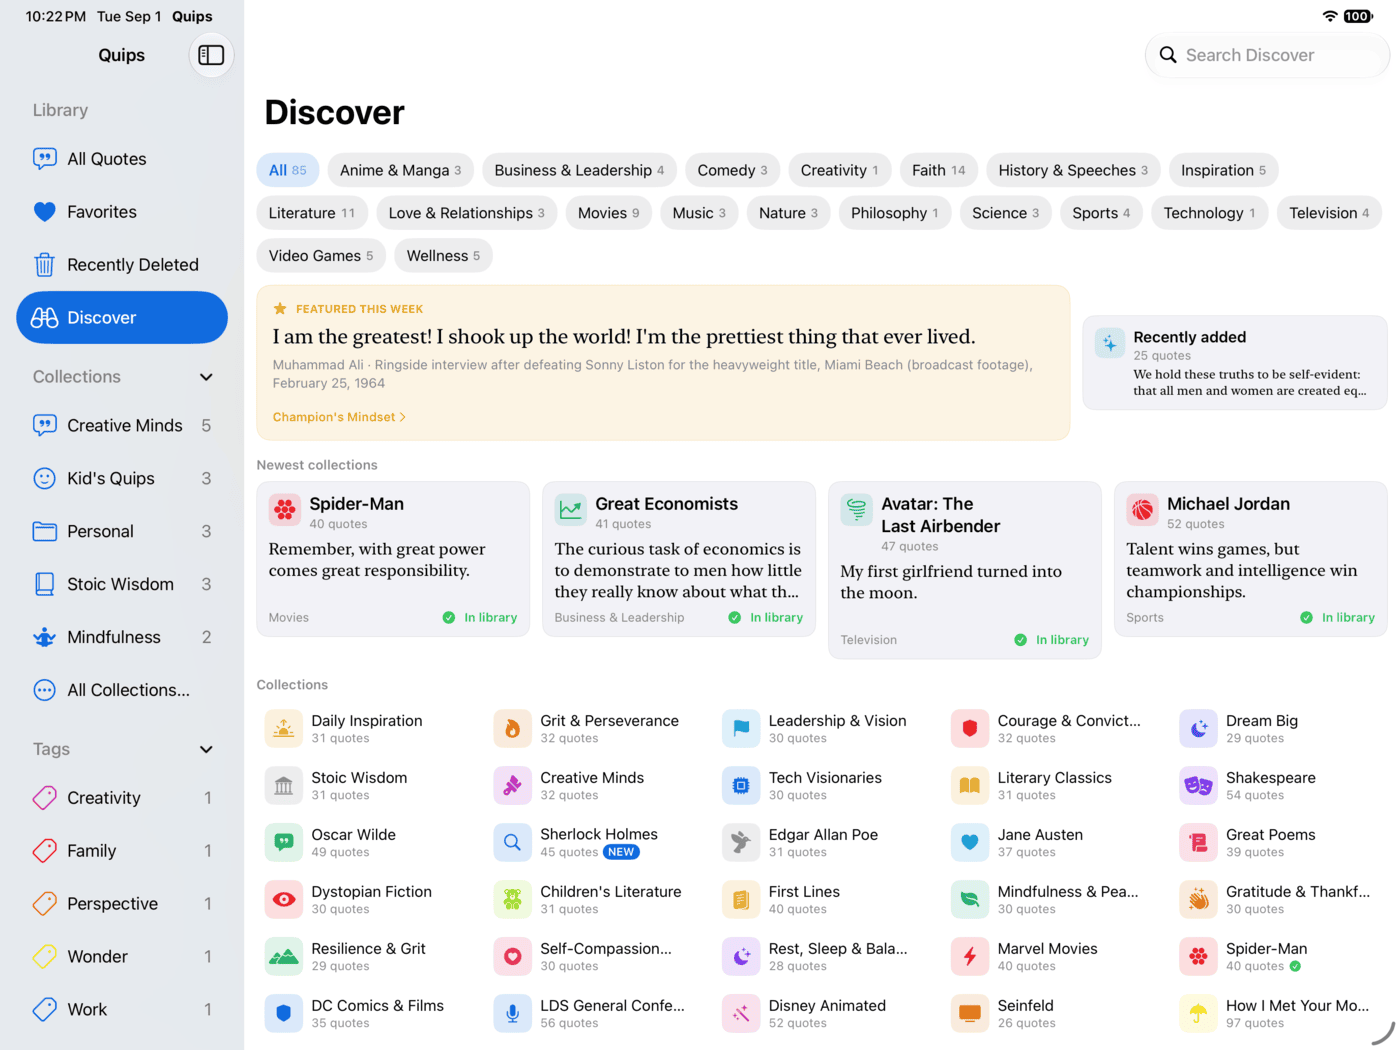
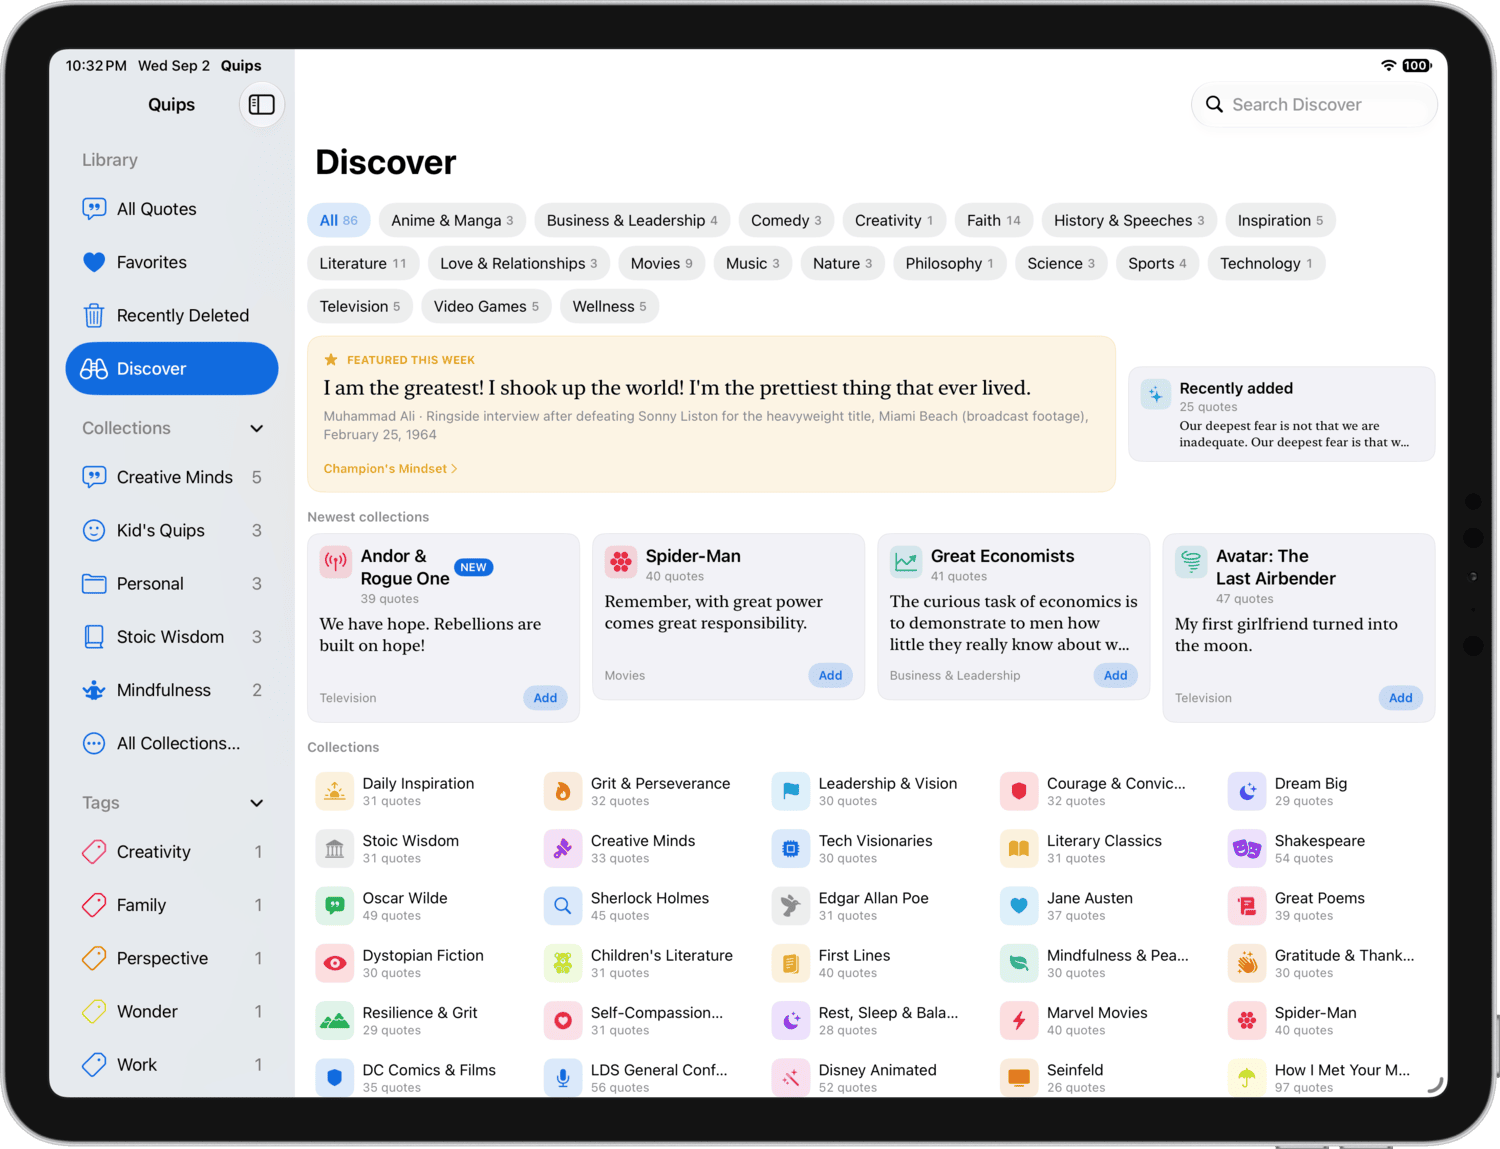
feat: Publish the iPad screenshots in a device frame
The iPad shots were bare screenshots with the rounded corner and shadow
faked in CSS. They now carry a real iPad Pro bezel from frameit, so
.is-unframed applies to the Mac alone — frameit refuses to draw a Mac
frame at all, and its Mac mode composites onto a background instead.

The platform pin moves from the iPad Pro 13-inch (M5) to the 12.9-inch
(6th generation): frameit matches a bezel by exact pixel size, and only
the latter's 2732x2048 is a size it knows, so nothing is resampled to
fit. See the manifest comment and the app repo's bin/screenshots for the
frameName rename that keeps frameit off the 2015 iPad Pro bezel.

Widths go 280/380/480 -> 300/410/515. The bezel pads the image without
enlarging the UI, so the slot has to grow by the same ~7% to leave the
app itself the size it was: 515px of image is about 480px of screen.
maxWidth rises 1400 -> 1500 for the same reason.

diff --git a/css/styles.css b/css/styles.css
@@ -568,10 +568,12 @@ a {
     margin-bottom: 0.75rem;
 }
 
-/* iPad and Mac shots ship without a device bezel (frameit has no frame for
-   either), so the rounded corner and shadow a bezel would have supplied come
-   from here instead. Never apply this to a framed shot: the PNG's own bezel is
-   already rounded, and a second radius clips its corners off. */
+/* Mac shots ship without a device bezel — frameit refuses to draw one, and its
+   Mac mode composites onto a background instead — so the rounded corner and
+   shadow a bezel would have supplied come from here instead. Applied per the
+   manifest's per-platform "frame" flag, so iPhone and iPad (both framed) never
+   get it: their PNG's own bezel is already rounded, and a second radius would
+   clip its corners off. */
 .gallery-screenshot.is-unframed {
     border-radius: 12px;
     box-shadow: var(--shadow-lg);
@@ -581,9 +583,12 @@ a {
    landscape iPad and Mac shots carry a sidebar and a multi-column grid that
    turn to mush at phone width. The three widths are tuned so a row reads as one
    set — a 4:3 iPad and a 16:9 Mac at these sizes stand about as tall as the
-   phone beside them. */
+   phone beside them. The iPad numbers are the Mac-era ones scaled by 1.07: its
+   PNG now carries a bezel, which pads the image without enlarging the UI, so
+   the width has to grow by the same amount to keep the app itself the size it
+   was (515px of image ≈ 480px of screen). */
 .gallery-screenshot.is-ipad {
-    width: 280px;
+    width: 300px;
 }
 
 .gallery-screenshot.is-mac {
@@ -600,7 +605,7 @@ a {
     }
 
     .gallery-screenshot.is-ipad {
-        width: 380px;
+        width: 410px;
     }
 
     .gallery-screenshot.is-mac {
@@ -614,7 +619,7 @@ a {
     }
 
     .gallery-screenshot.is-ipad {
-        width: 480px;
+        width: 515px;
     }
 
     .gallery-screenshot.is-mac {
